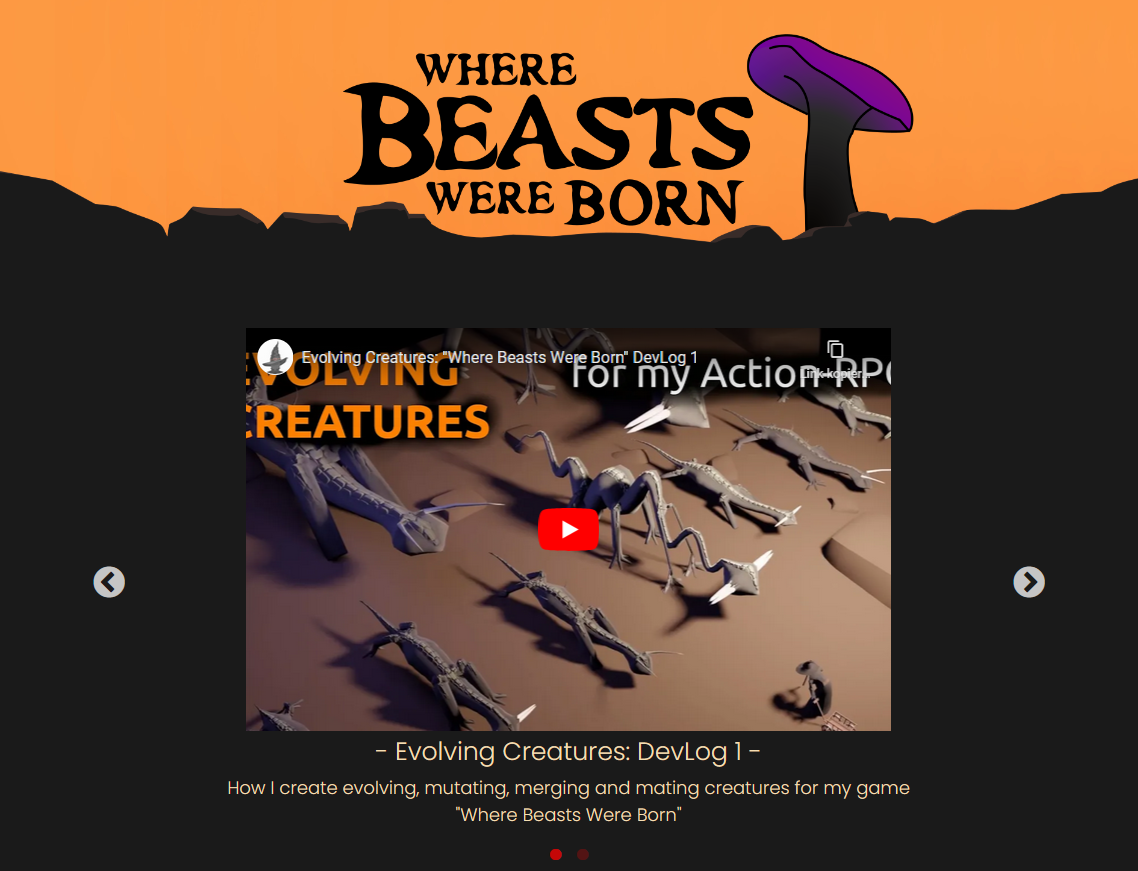
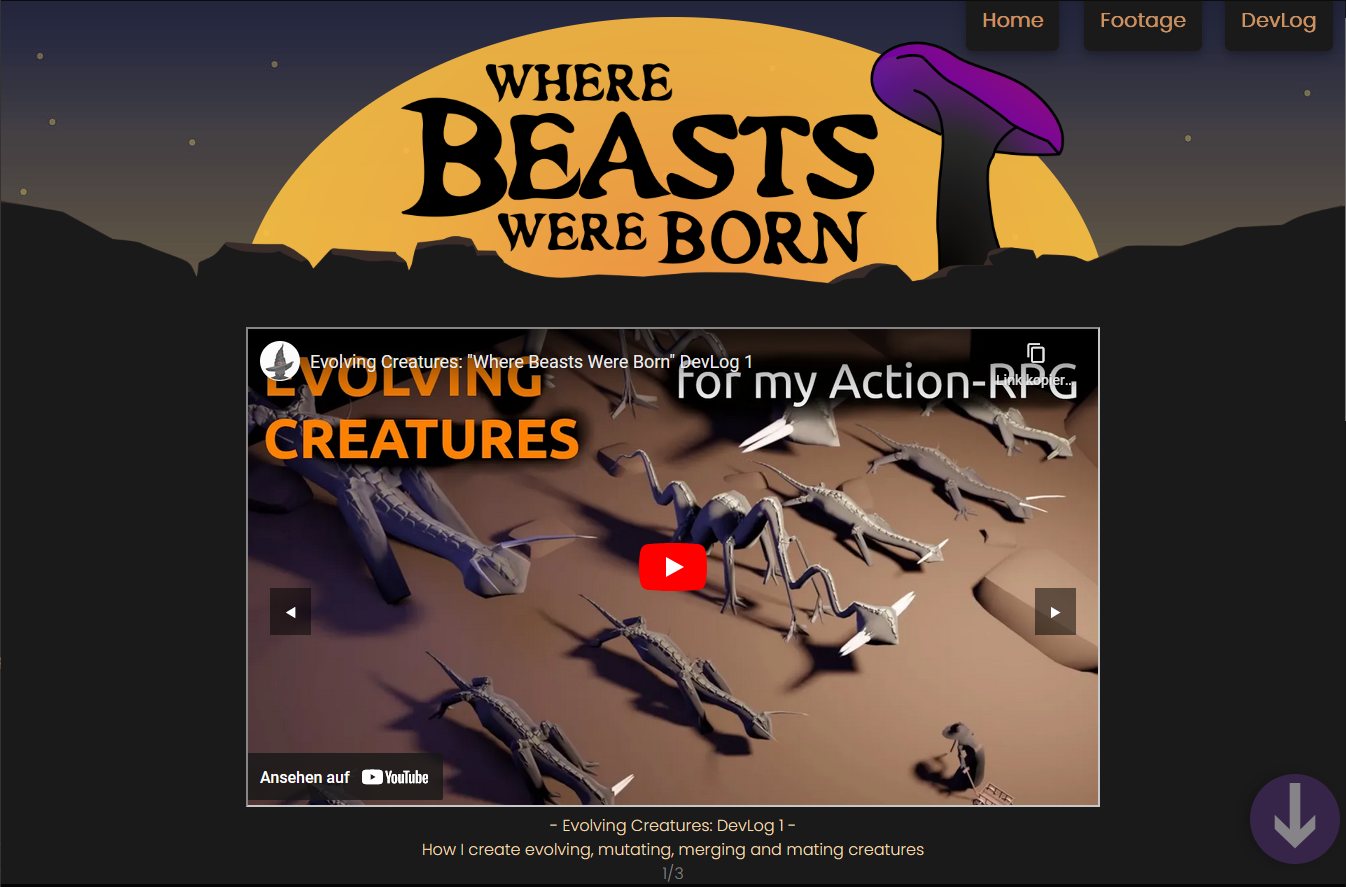
adds new images to wbw, changes order

diff --git a/index.html b/index.html
@@ -21,42 +21,38 @@
       </blockquote>
 
       <section class="section-text reveal">
-        <h2>⛵ The Plank</h2>
+        <h2>🕷 Where-Beasts-Were-Born.com </h2>
         <h4>
-          "Throw your thoughts overboard and keep a clear mind with this simple
-          notes app"
+          "Follow the development process of a revolutionizing next gen video game"
         </h4>
         <p>
-          Built with Ionic and Vue.js this app offers pirate like
-          functionalities to add, delete and export your notes. Thanks to
-          Capacitor it runs not only in your web browser but can also be build
-          as an android apk and run on your mobile device!
+          This static web page offers some insights to the development process of "Where Beasts Were Born". 
+          "Where Beasts Were Born" is a non-linear RPG developed by <a href="https://github.com/Germanunkol">Germanunkol</a> where creatures can mate, merge, mutate and evolve. 
+          Each new creature is unique and has its own physiology, brain and behavior. 
         </p>
 
         <p>
           <h4>Technologies Used</h4>
           <div class="features-container">
-            <div class="feature"><a href="https://ionicframework.com/">Ionic</a></div>
+            <div class="feature"><a href="https://de.wikipedia.org/wiki/Hypertext_Markup_Language">HTML</a></div>
+            <div class="feature"><a href="https://de.wikipedia.org/wiki/Cascading_Style_Sheets">CSS</a></div>
             <div class="feature"><a href="https://vuejs.org/">Vue.js</a></div>
-            <div class="feature"><a href="https://capacitorjs.com/">Capacitor</a></div> 
           </div>
         </p>
 
         <div class="button-container">
-          <a class="github-button" href="https://github.com/p7df2/ThePlank">Github</a>
-          <a class="open-demo-button" href="/theplank">LAUNCH DEMO</a>
+          <a class="open-demo-button" href="https://where-beasts-were-born.com/">Visit Site</a>
         </div>
       </section>
       <section class="section-img reveal">
         <div class="img-container">
-          <img src="./images/content/projects/theplank/theplank.PNG" />
+          <img src="./images/content/projects/wbwb/wbwb1.png" />
         </div>
         <div class="img-container">
-          <img src="./images/content/projects/theplank/theplank3.PNG" />
+          <img src="./images/content/projects/wbwb/wbwb2.png" />
         </div>
       </section>
-
-
+      
       <section class="section-text reveal">
         <h2>📊 CSV-Editor</h2>
         <h4>
@@ -70,8 +66,9 @@
         <p>
           <h4>Technologies Used</h4>
           <div class="features-container">
+            <div class="feature"><a href="https://de.wikipedia.org/wiki/Hypertext_Markup_Language">HTML</a></div>
+            <div class="feature"><a href="https://de.wikipedia.org/wiki/Cascading_Style_Sheets">CSS</a></div>
             <div class="feature"><a href="https://vuejs.org/">Vue.js</a></div>
-            <div class="feature"><a href="https://www.javascript.com/">Javascript</a></div>
           </div>
         </p>
 
@@ -89,40 +86,42 @@
         </div>
       </section>
 
-
       <section class="section-text reveal">
-        <h2>🕷 Where-Beasts-Were-Born.com </h2>
+        <h2>⛵ The Plank</h2>
         <h4>
-          "Follow the development process of a revolutionizing next gen video game"
+          "Throw your thoughts overboard and keep a clear mind with this simple
+          notes app"
         </h4>
         <p>
-          This static web page offers some insights to the development process of "Where Beasts Were Born". 
-          "Where Beasts Were Born" is a non-linear RPG developed by <a href="https://github.com/Germanunkol">Germanunkol</a> where creatures can mate, merge, mutate and evolve. 
-          Each new creature is unique and has its own physiology, brain and behavior. 
+          Built with Ionic and Vue.js this app offers pirate like
+          functionalities to add, delete and export your notes. Thanks to
+          Capacitor it runs not only in your web browser but can also be build
+          as an android apk and run on your mobile device!
         </p>
 
         <p>
           <h4>Technologies Used</h4>
           <div class="features-container">
-            <div class="feature"><a href="https://de.wikipedia.org/wiki/Hypertext_Markup_Language">HTML</a></div>
-            <div class="feature"><a href="https://de.wikipedia.org/wiki/Cascading_Style_Sheets">CSS</a></div>
-            <div class="feature"><a href="https://www.javascript.com/">Javascript</a></div>
+            <div class="feature"><a href="https://ionicframework.com/">Ionic</a></div>
+            <div class="feature"><a href="https://capacitorjs.com/">Capacitor</a></div> 
+            <div class="feature"><a href="https://vuejs.org/">Vue.js</a></div>
           </div>
         </p>
 
         <div class="button-container">
-          <a class="open-demo-button" href="https://where-beasts-were-born.com/">Visit Site</a>
+          <a class="github-button" href="https://github.com/p7df2/ThePlank">Github</a>
+          <a class="open-demo-button" href="/theplank">LAUNCH DEMO</a>
         </div>
       </section>
       <section class="section-img reveal">
         <div class="img-container">
-          <img src="./images/content/projects/wbwb/wbwb1.png" />
+          <img src="./images/content/projects/theplank/theplank.PNG" />
         </div>
         <div class="img-container">
-          <img src="./images/content/projects/wbwb/wbwb2.png" />
+          <img src="./images/content/projects/theplank/theplank3.PNG" />
         </div>
       </section>
-
+      
       <section class="section-text reveal">
         <h2>💿 SoFW - Soundboard </h2>
         <h4>
@@ -136,8 +135,8 @@
           <h4>Technologies Used</h4>
           <div class="features-container">
             <div class="feature"><a href="https://ionicframework.com/">Ionic</a></div>
-            <div class="feature"><a href="https://vuejs.org/">Vue.js</a></div>
             <div class="feature"><a href="https://capacitorjs.com/">Capacitor</a></div> 
+            <div class="feature"><a href="https://vuejs.org/">Vue.js</a></div>
           </div>
         </p>
 
